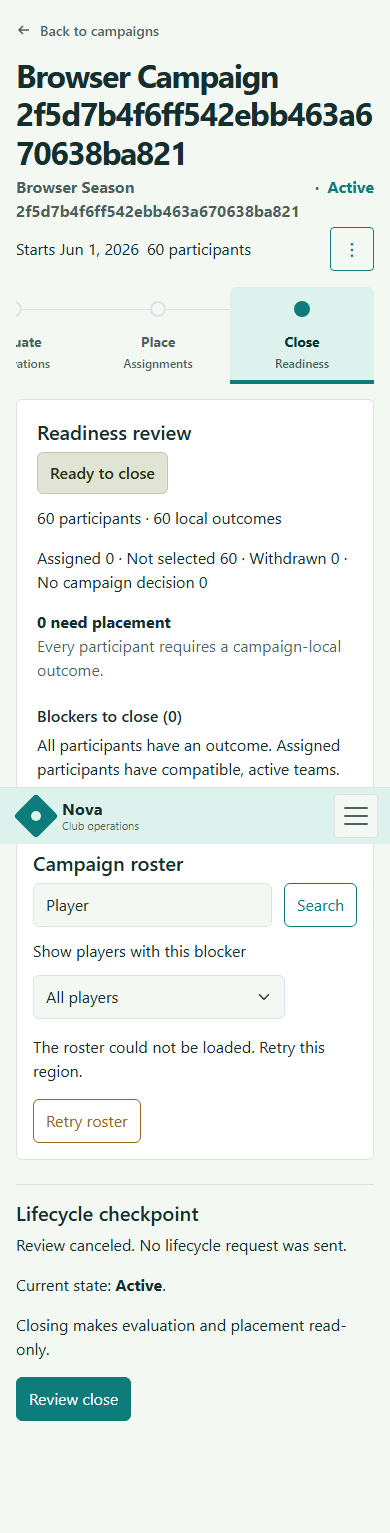
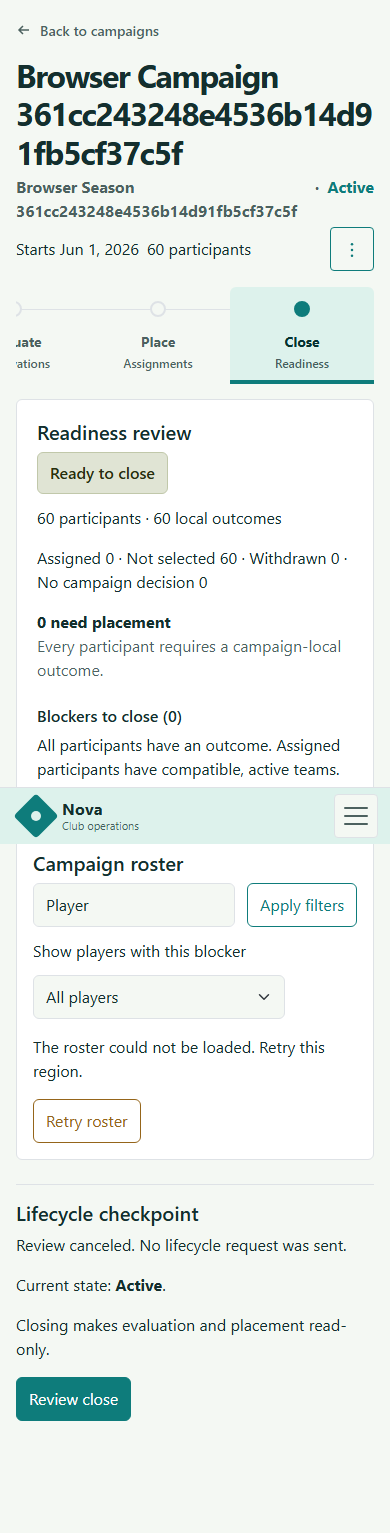
fix: preserve native close filters and correction startup context

Changed region(s): [[0.0308, 0.0613, 0.9538, 0.1533], [0.6769, 0.5825, 0.8923, 0.6132]]

diff --git a/Nova.Browser.Tests/CampaignCloseBrowserTests.Native.cs b/Nova.Browser.Tests/CampaignCloseBrowserTests.Native.cs
@@ -1,0 +1,51 @@
+using Shouldly;
+
+namespace Nova.Browser.Tests;
+
+public sealed partial class CampaignCloseBrowserTests
+{
+    [Fact]
+    public async Task NativeCloseFiltersPreserveWorkspaceContextAndResetPagingWithoutScriptsAsync()
+    {
+        var seed = await EvaluationSeed.SeedAsync(fixture.AppHost, TestContext.Current.CancellationToken);
+        await PrepareReviewAsync(seed);
+        await using var context = await fixture.NewSignedInContextAsync(seed.EvaluatorEmail, EvaluationSeed.Password,
+            new() { Width = 390, Height = 844 }, javaScriptEnabled: false);
+        var page = context.Pages[0];
+        await page.GotoAsync(new Uri(fixture.BaseUri, $"/campaigns/{seed.CampaignId}?tab=close&closePage=2&search=Roster%20%26%20context&placementSearch=Place&evalSearch=Evaluate").ToString());
+        await Expect(page.Locator(".close-roster tbody a")).ToHaveCountAsync(10);
+        // SelectOption can change an off-screen control; bring the form above the fixed phone navigation first.
+        await page.Locator("#close-blocker").ScrollIntoViewIfNeededAsync();
+        await page.Locator("#close-blocker").SelectOptionAsync("outcomes");
+        await page.GetByRole(AriaRole.Button, new() { Name = "Apply filters", Exact = true }).ClickAsync();
+        await Expect(page.Locator(".close-roster tbody a")).ToHaveCountAsync(4);
+        await Expect(page.Locator("#close-blocker")).ToHaveValueAsync("outcomes");
+        page.Url.ShouldNotContain("closePage=");
+        await page.Locator("#close-blocker").ScrollIntoViewIfNeededAsync();
+        await page.Locator("#close-search").FillAsync("Maya");
+        await page.GetByRole(AriaRole.Button, new() { Name = "Apply filters", Exact = true }).ClickAsync();
+        await Expect(page.Locator(".close-roster")).ToContainTextAsync("No participants match this review.");
+        await Expect(page.Locator("#close-blocker")).ToHaveValueAsync("outcomes");
+        await Expect(page.Locator("#close-search")).ToHaveValueAsync("Maya");
+        await page.Locator("#close-blocker").ScrollIntoViewIfNeededAsync();
+        await page.Locator("#close-blocker").SelectOptionAsync("");
+        var apply = page.GetByRole(AriaRole.Button, new() { Name = "Apply filters", Exact = true });
+        await AssertPhoneTargetAsync(apply);
+        await AssertPhoneTargetAsync(page.Locator("#close-blocker"));
+        await apply.FocusAsync();
+        await Expect(apply).ToBeFocusedAsync();
+        await apply.PressAsync("Enter");
+        await Expect(page.Locator(".close-roster tbody a")).ToHaveCountAsync(1);
+        await Expect(page.Locator(".close-roster tbody a")).ToHaveTextAsync("Maya Patel");
+        await Expect(page.Locator("#close-search")).ToHaveValueAsync("Maya");
+        var query = Uri.UnescapeDataString(new Uri(page.Url).Query.Replace('+', ' '));
+        query.ShouldContain("search=Roster & context");
+        query.ShouldContain("placementSearch=Place");
+        query.ShouldContain("evalSearch=Evaluate");
+        query.ShouldContain("closeSearch=Maya");
+        await CaptureAsync(page, "phone-native-filters");
+        await page.GoBackAsync();
+        await Expect(page.Locator(".close-roster")).ToContainTextAsync("No participants match this review.");
+        await Expect(page.Locator("#close-blocker")).ToHaveValueAsync("outcomes");
+    }
+}

diff --git a/Nova.Unit.Tests/Campaigns/CampaignCloseRosterTests.cs b/Nova.Unit.Tests/Campaigns/CampaignCloseRosterTests.cs
@@ -22,6 +22,41 @@ public sealed class CampaignCloseRosterTests : BunitContext
             .Returns(new ServiceResult<CampaignEffectivePlacementsResult>(new CampaignEffectivePlacementsResult(new(10, "Campaign", CampaignStatus.Active, new(20, "Season")), new(0, 0, 0, 0), new([], 1, 50, 0))));
     }
 
+    [Fact]
+    public void NativeFilterFormPreservesWorkspaceContextWithoutStaleCloseFields()
+    {
+        var cut = Render<CampaignCloseRoster>(p => p.Add(x => x.CampaignId, 10)
+            .Add(x => x.State, new CampaignWorkspaceCloseState { Search = "A & B", Blocker = "outcomes", Page = 2 })
+            .Add(x => x.BuildCloseUrl, _ => "/campaigns/10?tab=close&search=Roster%20%26%20context&placementSearch=Place&evalSearch=Evaluate&tag=1&tag=2&closePage=2&closeSearch=stale&closeBlocker=stale")
+            .Add(x => x.BuildParticipantUrl, _ => "/campaigns/10?tab=place"));
+        var form = cut.Find("form");
+        form.GetAttribute("method").ShouldBe("get");
+        form.GetAttribute("action").ShouldBe("/campaigns/10");
+        cut.Find("#close-search").GetAttribute("name").ShouldBe("closeSearch");
+        cut.Find("#close-search").GetAttribute("value").ShouldBe("A & B");
+        cut.Find("#close-blocker").GetAttribute("name").ShouldBe("closeBlocker");
+        cut.Find("#close-blocker").GetAttribute("form").ShouldBe(form.Id);
+        cut.Find("#close-blocker option[selected]").GetAttribute("value").ShouldBe("outcomes");
+        cut.FindAll("input[type=hidden]").Select(x => (x.GetAttribute("name"), x.GetAttribute("value")))
+            .ShouldBe(new (string?, string?)[] { ("tab", "close"), ("search", "Roster & context"), ("placementSearch", "Place"), ("evalSearch", "Evaluate"), ("tag", "1"), ("tag", "2") });
+    }
+
+    [Fact]
+    public void InteractiveFiltersRetainSiblingCloseValueAndResetPage()
+    {
+        CampaignWorkspaceCloseState? applied = null;
+        var cut = Render<CampaignCloseRoster>(p => p.Add(x => x.CampaignId, 10)
+            .Add(x => x.State, new CampaignWorkspaceCloseState { Search = "original", Blocker = "outcomes", Page = 2 })
+            .Add(x => x.BuildCloseUrl, _ => "/campaigns/10?tab=close")
+            .Add(x => x.BuildParticipantUrl, _ => "/campaigns/10?tab=place")
+            .Add(x => x.OnStateChanged, value => applied = value));
+        cut.Find("#close-search").Change(" new search ");
+        cut.Find("form").Submit();
+        applied.ShouldBe(new CampaignWorkspaceCloseState { Search = "new search", Blocker = "outcomes" });
+        cut.Find("#close-blocker").Change("eligibility");
+        applied.ShouldBe(new CampaignWorkspaceCloseState { Search = "original", Blocker = "eligibility" });
+    }
+
     [Theory(IncludeTestCaseIndex = true)]
     [InlineData(false)]
     [InlineData(true)]

diff --git a/Nova.Unit.Tests/Players/PlayerComponentsTests.cs b/Nova.Unit.Tests/Players/PlayerComponentsTests.cs
@@ -20,6 +20,45 @@ namespace Nova.Unit.Tests.Players;
 /// </summary>
 public sealed class PlayerComponentsTests : BunitContext
 {
+    /// <summary>Retains correction context and applies discovery filters before either startup authentication path loads the roster.</summary>
+    /// <param name="notificationOvertakesStartup">Whether the initial identity arrives through a notification before startup completes.</param>
+    [Theory(IncludeTestCaseIndex = true)]
+    [InlineData(false)]
+    [InlineData(true)]
+    public async Task PlayersStartupPreservesIncomingCorrectionContextAndFiltersAsync(bool notificationOvertakesStartup)
+    {
+        RegisterServices(isClubAdmin: true);
+        var pending = new TaskCompletionSource<AuthenticationState>();
+        var authentication = new DeferredAuthentication(pending.Task);
+        Services.AddSingleton<AuthenticationStateProvider>(authentication);
+        var navigation = Services.GetRequiredService<NavigationManager>();
+        navigation.NavigateTo("/players?returnToDraft=10&returnUrl=%2Fcampaigns%2F10%3Ftab%3Dclose&view=archived&search=Avery&graduationYear=2032&tag=11");
+        var cut = Render<PlayersPage>();
+        var identity = new AuthenticationState(CreatePrincipal(true));
+        if (notificationOvertakesStartup)
+        {
+            await cut.InvokeAsync(() => authentication.Publish(Task.FromResult(identity)));
+        }
+        else
+        {
+            await cut.InvokeAsync(() => pending.SetResult(identity));
+        }
+        await cut.WaitForAssertionAsync(() => cut.Markup.ShouldContain("Avery Johnson"));
+        navigation.Uri.ShouldContain("returnToDraft=10");
+        navigation.Uri.ShouldContain("returnUrl=");
+        cut.Markup.ShouldContain("Return to draft");
+        await Services.GetRequiredService<IPlayerService>().Received(1).GetPlayerRosterAsync(
+            Arg.Is<GetPlayerRosterInput>(input => input.ClubId == 42 && string.Equals(input.Search, "Avery", StringComparison.Ordinal)
+                && string.Equals(input.LifecycleStatus, "archived", StringComparison.Ordinal) && input.GraduationYear == 2032 && input.PlayerTagId == 11),
+            Arg.Any<CancellationToken>());
+        if (notificationOvertakesStartup)
+        {
+            await cut.InvokeAsync(() => pending.SetResult(identity));
+        }
+        navigation.Uri.ShouldContain("returnToDraft=10");
+        cut.Markup.ShouldContain("Return to draft");
+    }
+
     /// <summary>Verifies an empty identity overtaking startup reaches the club-required state without loading another user's roster.</summary>
     [Fact]
     public async Task PlayersAppliesEmptyIdentityWhenItOvertakesStartupAsync()

diff --git a/Nova.Browser.Tests/CampaignDraftBrowserTests.cs b/Nova.Browser.Tests/CampaignDraftBrowserTests.cs
@@ -34,12 +34,17 @@ public sealed class CampaignDraftBrowserTests(BrowserSuiteFixture fixture)
         (await page.EvaluateAsync<bool>("document.documentElement.scrollWidth <= innerWidth")).ShouldBeTrue();
         await page.SetViewportSizeAsync(1505, 1045);
         await page.GetByRole(AriaRole.Link, new() { Name = "Prepare draft", Exact = true }).ClickAsync();
-        await page.GetByRole(AriaRole.Link, new() { Name = "View players", Exact = true }).ClickAsync();
+        var returnToDraft = page.GetByRole(AriaRole.Link, new() { Name = "Return to draft", Exact = true });
+        await InteractionHelpers.ClickUntilAsync(page, page.GetByRole(AriaRole.Link, new() { Name = "View players", Exact = true }),
+            async () => string.Equals(new Uri(page.Url).AbsolutePath, "/players", StringComparison.Ordinal) && await returnToDraft.IsVisibleAsync());
         await Expect(page.GetByRole(AriaRole.Link, new() { Name = "Return to draft", Exact = true })).ToBeVisibleAsync();
-        await page.GetByRole(AriaRole.Link, new() { Name = "Return to draft", Exact = true }).ClickAsync();
+        await InteractionHelpers.ClickUntilAsync(page, returnToDraft,
+            () => page.GetByRole(AriaRole.Heading, new() { Name = "Roster preview" }).IsVisibleAsync());
         await Expect(page.GetByRole(AriaRole.Heading, new() { Name = "Roster preview" })).ToBeVisibleAsync();
-        await page.GetByRole(AriaRole.Link, new() { Name = "View teams", Exact = true }).ClickAsync();
-        await page.GetByRole(AriaRole.Link, new() { Name = "Return to draft", Exact = true }).ClickAsync();
+        await InteractionHelpers.ClickUntilAsync(page, page.GetByRole(AriaRole.Link, new() { Name = "View teams", Exact = true }),
+            async () => string.Equals(new Uri(page.Url).AbsolutePath, "/club/teams", StringComparison.Ordinal) && await returnToDraft.IsVisibleAsync());
+        await InteractionHelpers.ClickUntilAsync(page, returnToDraft,
+            () => page.GetByRole(AriaRole.Heading, new() { Name = "Roster preview" }).IsVisibleAsync());
         await page.GetByRole(AriaRole.Link, new() { Name = "Review opening", Exact = true }).ClickAsync();
         var commit = page.GetByRole(AriaRole.Button, new() { Name = "Open campaign and enroll 24 players", Exact = true });
         await Expect(commit).ToBeEnabledAsync();

diff --git a/Nova.UI/Features/Players/Pages/Players.razor.cs b/Nova.UI/Features/Players/Pages/Players.razor.cs
@@ -238,7 +238,10 @@ public partial class Players(
     protected bool IsRosterTruncated => _roster is not null && _roster.TotalCount > _roster.Items.Count;
 
     /// <inheritdoc />
-    protected override void OnParametersSet()
+    protected override void OnParametersSet() => ApplyQueryFilters();
+
+    /// <summary>Applies incoming URL filters once when binding the initial identity.</summary>
+    private void ApplyQueryFilters()
     {
         if (_queryFiltersApplied)
         {
@@ -258,6 +261,7 @@ public partial class Players(
     /// <inheritdoc />
     protected override async Task OnInitializedAsync()
     {
+        ApplyQueryFilters();
         authenticationStateProvider.AuthenticationStateChanged += OnAuthenticationStateChanged;
         var authenticationVersion = _authenticationVersion;
         var authenticationState = await authenticationStateProvider.GetAuthenticationStateAsync();
@@ -322,14 +326,24 @@ public partial class Players(
 
             ++_identityVersion;
             ++_rosterVersion;
+            var discardReturnContext = _identityApplied
+                || (Initialized && !string.Equals(SnapshotScope, $"{userId}:{clubId}:{canManagePlayers}", StringComparison.Ordinal));
             _identityApplied = true;
             _clubId = clubId;
             _userId = userId;
             _canManagePlayers = canManagePlayers;
             ResetIdentityState();
+            if (!discardReturnContext)
+            {
+                _queryFiltersApplied = false;
+                ApplyQueryFilters();
+            }
             _isLoading = _clubId is not null;
             StateHasChanged();
-            navigationManager.NavigateTo("/players", replace: true);
+            if (discardReturnContext)
+            {
+                navigationManager.NavigateTo("/players", replace: true);
+            }
             if (_clubId is null)
             {
                 _pageError = "You must join a club before viewing the player roster.";

diff --git a/Nova.Unit.Tests/Teams/TeamComponentsTests.cs b/Nova.Unit.Tests/Teams/TeamComponentsTests.cs
@@ -20,6 +20,27 @@ namespace Nova.Unit.Tests.Teams;
 /// </summary>
 public sealed class TeamComponentsTests : BunitContext
 {
+    /// <summary>Retains the incoming Draft return when the first identity notification overtakes startup.</summary>
+    [Fact]
+    public async Task TeamsInitialIdentityNotificationPreservesIncomingDraftReturnAsync()
+    {
+        RegisterServices(isClubAdmin: true);
+        var pending = new TaskCompletionSource<AuthenticationState>();
+        var authentication = new DeferredAuthentication(pending.Task);
+        Services.AddSingleton<AuthenticationStateProvider>(authentication);
+        var navigation = Services.GetRequiredService<NavigationManager>();
+        navigation.NavigateTo("/club/teams?returnToDraft=10&search=Blue");
+        var cut = Render<TeamsPage>();
+        var identity = new AuthenticationState(CreatePrincipal(true, false));
+        await cut.InvokeAsync(() => authentication.Publish(Task.FromResult(identity)));
+        await cut.WaitForAssertionAsync(() => cut.Markup.ShouldContain("U16 Blue"));
+        navigation.Uri.ShouldContain("returnToDraft=10");
+        cut.Markup.ShouldContain("Return to draft");
+        await cut.InvokeAsync(() => pending.SetResult(identity));
+        navigation.Uri.ShouldContain("returnToDraft=10");
+        cut.Markup.ShouldContain("Return to draft");
+    }
+
     /// <summary>Verifies Draft return context is discarded on club or role changes while directory filters survive.</summary>
     /// <param name="clubChange">Whether authority changes by switching clubs instead of revoking the administrator role.</param>
     [Theory(IncludeTestCaseIndex = true)]

diff --git a/Nova.UI/Features/Campaigns/Components/CampaignCloseRoster.razor.cs b/Nova.UI/Features/Campaigns/Components/CampaignCloseRoster.razor.cs
@@ -44,6 +44,23 @@ public partial class CampaignCloseRoster(IEffectivePlacementQueryService queries
     private int LastAvailablePage => _page is null ? 1 : Math.Max(1, (int)Math.Ceiling(_page.TotalCount / (double)Math.Max(1, _page.PageSize)));
     private string RequestKey => $"{Owner}:{CampaignId}:{State}";
 
+    private IEnumerable<KeyValuePair<string, string>> NativeQueryFields
+    {
+        get
+        {
+            var url = BuildCloseUrl(new());
+            var queryStart = url.IndexOf('?', StringComparison.Ordinal);
+            if (queryStart < 0) { yield break; }
+            foreach (var queryField in url[(queryStart + 1)..].Split('&', StringSplitOptions.RemoveEmptyEntries))
+            {
+                var pair = queryField.Split('=', 2);
+                var name = Uri.UnescapeDataString(pair[0]);
+                if (name is "tab" or "closeSearch" or "closeBlocker" or "closePage") { continue; }
+                yield return new(name, pair.Length > 1 ? Uri.UnescapeDataString(pair[1]) : string.Empty);
+            }
+        }
+    }
+
     /// <inheritdoc />
     protected override async Task OnParametersSetAsync()
     {

diff --git a/Nova.Browser.Tests/CampaignCloseBrowserTests.cs b/Nova.Browser.Tests/CampaignCloseBrowserTests.cs
@@ -130,7 +130,7 @@ public sealed partial class CampaignCloseBrowserTests(BrowserSuiteFixture fixtur
         await page.GetByRole(AriaRole.Link, new() { Name = "Next page", Exact = true }).ClickAsync();
         await Expect(page.Locator(".close-roster tbody a")).ToHaveCountAsync(10);
         await page.Locator("#close-search").FillAsync("Nobody matches this search");
-        await page.GetByRole(AriaRole.Button, new() { Name = "Search", Exact = true }).ClickAsync();
+        await page.GetByRole(AriaRole.Button, new() { Name = "Apply filters", Exact = true }).ClickAsync();
         await Expect(page.Locator(".close-roster")).ToContainTextAsync("No participants match this review.");
         await page.SetViewportSizeAsync(390, 844);
         await AssertPhoneTargetAsync(page.GetByRole(AriaRole.Link, new() { Name = "Show all campaign participants", Exact = true }));

diff --git a/Nova.Browser.Tests/CampaignCloseRegionalBrowserTests.cs b/Nova.Browser.Tests/CampaignCloseRegionalBrowserTests.cs
@@ -27,7 +27,7 @@ public sealed partial class CampaignCloseBrowserTests
         try
         {
             await page.Locator("#close-search").FillAsync("Player");
-            await page.GetByRole(AriaRole.Button, new() { Name = "Search", Exact = true }).ClickAsync();
+            await page.GetByRole(AriaRole.Button, new() { Name = "Apply filters", Exact = true }).ClickAsync();
             await AssertPhoneTargetAsync(page.GetByRole(AriaRole.Button, new() { Name = "Retry roster", Exact = true }));
             await Expect(page.Locator(".close-review")).ToContainTextAsync("Ready to close");
             await CaptureAsync(page, "phone-roster-error");

diff --git a/Nova.UI/Features/Teams/Pages/Teams.razor.cs b/Nova.UI/Features/Teams/Pages/Teams.razor.cs
@@ -1029,12 +1029,14 @@ public partial class Teams(
 
         var roleChanged = canManageTeams != _canManageTeams;
         var clubChanged = !_identityApplied || clubId != _clubId;
+        var discardReturnContext = (_identityApplied && (clubChanged || roleChanged))
+            || (Initialized && PersistedClubId != clubId);
 
         _identityApplied = true;
         _canManageTeams = canManageTeams;
         _clubId = clubId;
 
-        if (clubChanged || roleChanged)
+        if (discardReturnContext)
         {
             ReturnToDraft = null;
             var uri = navigationManager.GetUriWithQueryParameter("returnToDraft", (string?)null);

diff --git a/docs/issue-256-validation.md b/docs/issue-256-validation.md
@@ -1,10 +1,10 @@
 # Issue #256 validation
 
-Status: round-eight shared Close page-size reference is implemented and all required local checks pass. The working tree is `aa18cc1ba7f47cf5a84136375c38ceee84d6708e` plus the round-eight diff. Actual PR base: `3486196375e01fc870ce4fba0ac918f3a317773d`. Fresh CI and automatic review remain required after this push.
+Status: round-nine native Close filtering and correction-startup fixes passed local validation and independent code/finish review. Tested tree: `be6b5f05d80f966735ec1d9d1970e1d96fbcc48d` plus the complete round-nine diff. Actual PR base: `3486196375e01fc870ce4fba0ac918f3a317773d`. Fresh CI and automatic review remain required after the single round-nine push.
 
[2 lines of base64/hex data omitted]
 
-The original implementation `542e28eccb81637208740fa8a813b0abf67eec33` passed 3,449 unit, 628 integration and 193 browser behavior tests. Round one, committed as `c2a71e84`, passed 3,481 unit, 628 integration and 195 browser behavior tests plus build/format; its CI also passed. Eight existing opt-in capture jobs were skipped in each full browser run. Round two, committed as `84ed0efb`, passed 3,498 unit, 628 integration and 195 browser behavior tests plus build/format and CI. Round three, committed as `31c7f29c`, passed 3,516 unit, 628 integration and 195 browser behavior tests plus build/format and CI. Round four, committed as `971e1d4b`, passed 3,520 unit, 630 integration and 195 browser behavior tests plus build/format and CI. Round five, committed as `f7fb95b6`, passed 3,530 unit, 630 integration and 195 browser behavior tests plus build/format and CI. Round six, committed as `aefe6f15`, passed 3,538 unit, 630 integration and 196 browser behavior tests plus build/format and CI. Round seven, committed as `aa18cc1b`, passed 3,547 unit, 630 integration and 196 browser behavior tests plus build/format and CI. Those results remain historical evidence; the current table and dispositions below identify round-eight results. Fresh automatic review and passing CI are required after every push.
+The original implementation `542e28eccb81637208740fa8a813b0abf67eec33` passed 3,449 unit, 628 integration and 193 browser behavior tests. Round one, committed as `c2a71e84`, passed 3,481 unit, 628 integration and 195 browser behavior tests plus build/format; its CI also passed. Eight existing opt-in capture jobs were skipped in each full browser run. Round two, committed as `84ed0efb`, passed 3,498 unit, 628 integration and 195 browser behavior tests plus build/format and CI. Round three, committed as `31c7f29c`, passed 3,516 unit, 628 integration and 195 browser behavior tests plus build/format and CI. Round four, committed as `971e1d4b`, passed 3,520 unit, 630 integration and 195 browser behavior tests plus build/format and CI. Round five, committed as `f7fb95b6`, passed 3,530 unit, 630 integration and 195 browser behavior tests plus build/format and CI. Round six, committed as `aefe6f15`, passed 3,538 unit, 630 integration and 196 browser behavior tests plus build/format and CI. Round seven, committed as `aa18cc1b`, passed 3,547 unit, 630 integration and 196 browser behavior tests plus build/format and CI. Round eight, committed as `be6b5f05`, passed 3,547 unit, 630 integration and 196 browser behavior tests plus build/format and CI. Those results remain historical evidence; the current table and dispositions below identify round-nine results. Fresh automatic review and passing CI are required after every push.
 
 ## Scope and handoff
 
@@ -55,18 +55,39 @@ Primary test files: [query cases](../Nova.Unit.Tests/Campaigns/CampaignCloseRevi
 | Check | Exact command | Current result |
 | --- | --- | --- |
 | Build | `dotnet build Nova.slnx` | Passed, 0 warnings/errors |
-| Format | `dotnet format Nova.slnx --verify-no-changes --verbosity diagnostic` | Passed, 0/1,029 files require changes, final round-eight inputs |
-| Unit | `dotnet test --project Nova.Unit.Tests/Nova.Unit.Tests.csproj --no-build` | Passed 3,547/3,547, no skips, 53s, final round-eight inputs |
-| Integration | `dotnet test --project Nova.Integration.Tests/Nova.Integration.Tests.csproj --no-build` | Passed 630/630, no skips, 3m28s, final round-eight inputs |
-| Browser | `dotnet test --project Nova.Browser.Tests/Nova.Browser.Tests.csproj --no-build` | Passed 196 behavior tests, eight existing opt-in capture skips, 6m27s, final round-eight inputs |
-| Diff hygiene | `git diff --check` | Passed on the complete round-six diff |
+| Format | `dotnet format Nova.slnx --verify-no-changes --verbosity diagnostic` | Passed; 0 of 1,030 files changed, 165s |
+| Unit | `dotnet test --project Nova.Unit.Tests/Nova.Unit.Tests.csproj --no-build` | Passed 3,552/3,552, no skips, 50s, final round-nine inputs; both startup query cases included |
+| Integration | `dotnet test --project Nova.Integration.Tests/Nova.Integration.Tests.csproj --no-build` | Passed 630/630, no skips, 3m13s, final round-nine inputs |
+| Browser | `dotnet test --project Nova.Browser.Tests/Nova.Browser.Tests.csproj --no-build` | Passed 197 behavior tests; eight existing opt-in capture skips, 6m42s, final round-nine inputs |
+| Diff hygiene | `git diff --check` | Passed on the complete round-nine diff |
 | Migration model | No model/entity/configuration/migration change | Not applicable; PostgreSQL migration/schema regressions included in integration suite |
 
 Build-capable commands were serial. Integration and browser suites ran serially; both provisioned their own Aspire host. App source/generated assets were fixed throughout each browser run. No Sass/package change; theme rebuild/contrast-specific gate is not newly applicable.
 
-The eight browser skips are existing environment-gated screenshot jobs, not skipped behavior tests. Nine representative captures were refreshed at 09:05 UTC in the final round-six run with `NOVA_CLOSE_EVIDENCE` set, including the new phone stale-page recovery. The tenth capture retains the original comparison input. Independent bounded reinspection of all nine refreshed captures returned ship with no material regression. Rounds seven and eight reuse these visual captures because no markup, CSS, copy or composition changed; each has fresh full browser behavior validation for its source inputs. Documentation/evidence curation after the tests does not change application or test source.
+The eight browser skips are existing environment-gated screenshot jobs, not skipped behavior tests. Ten representative captures were refreshed at 11:27–11:28 UTC in the final round-nine run with `NOVA_CLOSE_EVIDENCE` set, including script-disabled phone filtering and stale-page recovery. The eleventh capture retains the original failed comparison input. Independent bounded reinspection of all ten refreshed captures returned ship with no material regression. Rounds seven and eight reused the prior round-six captures because they changed no markup, CSS, copy or composition; round nine has fresh visual and full browser evidence. Documentation/evidence curation after the tests does not change application or test source.
 
 ## Material failures and review dispositions
+
+### Review round nine
+
+The [automatic Copilot review on be6b5f05](https://github.com/eruvalca/Nova/pull/281#pullrequestreview-5221445517) says “Needs a closer look” with two suppressed native-navigation findings; the completed workflow classifies two moderate findings. CI Build and Unit Tests passed. Both findings are applicable and this is not a clean-review stop.
+
+Search now uses a native GET action with a named Close search field. The blocker select belongs to that form through its HTML form association and carries a named query field and explicit selected option for static HTML. “Apply filters” submits both natively. Existing interactive search and immediate blocker change callbacks remain progressive enhancements. Hidden fields come from the existing Close URL builder, preserve Roster/Place/Evaluate context and repeated values, and omit old Close page/search/blocker fields; submitting filters resets Close paging.
+
+| Requirement | Evidence |
+| --- | --- |
+| Native form/action, named controls, selected blocker and decoded carried context without stale Close fields | `NativeFilterFormPreservesWorkspaceContextWithoutStaleCloseFields` |
+| Initial identity notification overtakes startup on Teams; normal or overtaking startup on Players | `TeamsInitialIdentityNotificationPreservesIncomingDraftReturnAsync`; `PlayersStartupPreservesIncomingCorrectionContextAndFiltersAsync` assert return context and actual query filters; existing club/role change tests retain reset coverage |
+| Interactive callbacks preserve sibling Close state and reset paging | `InteractiveFiltersRetainSiblingCloseValueAndResetPage` plus existing interactive search/history and blocker journeys |
+| JavaScript-disabled phone browser applies blocker and search, restores selected values, resets page, retains all workspace searches, supports keyboard submission and back navigation | `NativeCloseFiltersPreserveWorkspaceContextAndResetPagingWithoutScriptsAsync` |
+
+Independent review caught a test fixture using `placeSearch` instead of the existing `placementSearch` key. Both unit/browser fixture URLs and assertions were corrected before test compilation; no production contract changed for that correction. The first build rejected the iterator local named `field`, which is a C# 14 keyword inside a property accessor (CS9273, with cascading CS9258/CS1929). Renamed it `queryField`; no suppression or contract change. The next build caught CS8620 in the new tuple assertion because DOM attributes are nullable; the expected tuple array now has nullable string elements, preserving the exact values/order assertion. Independent review otherwise returned clean.
+
+The initial full browser run failed two cases (195 passed; eight existing capture skips). The new script-disabled phone test changed an off-screen select without scrolling it into view; the next native click targeted a button at y=799.58–843.58 in a 390×844 viewport, underneath the fixed navigation. The diagnostic capture confirmed the overlap. Explicitly scrolling the select into view models the prerequisite user interaction and retains ordinary clicks; no force-click or shell CSS exception was added. The next run passed all filter submissions but exposed Back restoring the last edited select value instead of the URL's applied blocker. The URL-owned GET form now disables browser form-value restoration with `autocomplete="off"`; the focused native browser case passed with this correction.
+
+The second original failure was a missing Teams Return to draft link after native navigation. That run did not capture the resulting URL or authentication sequence, so its exact cause is unconfirmed. Bounded native-link settlement improves diagnostics but does not establish a root cause. Investigation then deterministically reproduced a matching defect on both Teams and Players: the first identity notification overtaking startup was treated as an authority change and stripped the incoming correction return. Both new regression tests failed before the fix (77 other component tests passed). Initial identity binding now retains incoming context and reloads authorized data; an observed scope change or mismatching persisted owner still discards the old context. The corrected authentication component selection passed 79/79 and the focused browser selection passed 10/10. A sibling review then found that normal Players initialization also read the default roster before applying incoming URL filters; the same exact-query regression now covers normal and overtaking-notification startup. Before the normal-startup fix, only that theory row failed (33 other Players cases passed), recording an actual active/empty-search/null-year/null-tag query despite the archived/Avery/2032/tag-11 URL. Normal initialization now applies query filters before its first identity await and roster read. Final full validation passed on the fingerprinted inputs; independent code review found no remaining findings.
+
+Guidance applied: Blazor/C#/testing rules, `add-blazor-ui` and lifecycle/state references, `nova-testing` component/browser references, .NET run-tests/focused code-testing, and Impeccable harden/Operate/craft-floor within approved B. Fresh captures and bounded visual finish reinspection cover the changed button and native phone state.
 
 ### Review round eight
 

diff --git a/.impeccable/review/issue-256/local-code-review.md b/.impeccable/review/issue-256/local-code-review.md
@@ -75,3 +75,14 @@ The first full browser run exposed an ambiguous status locator: normal conflict 
 The independent reviewer acknowledged that its round-six inapplicability disposition missed the explicit API Routes rule for public builders. Client short-circuiting does not satisfy that separate contract. Reinspection found the corrected canonicalization/omission clean: existing shared blocker keys are reused, original input remains unchanged, and strict client/service validation still rejects invalid originals without HTTP. Nine exact URL cases plus three preserved invalid-client cases cover the boundary without weakening validation.
 
 The reviewer also inspected the workflow's withdrawn retry-performance comment. Panel RetryAsync intentionally forwards to workspace RefreshCloseEvidenceAsync, which refreshes authorized detail, invalidates readiness/generation, reads fresh readiness and republishes startup state. No demonstrated defect justifies changing this recovery contract. Final read-only verdict: clean. No suites were run by the reviewer.
+
+# Review round 9 — native Close filter navigation
+
+Independent review found a test-fixture key mismatch (`placeSearch` versus actual `placementSearch`); both fixtures were corrected. Final read-only disposition: clean. Native GET action, carried workspace fields, external select form association, static selected options, Close page reset and existing interactive callbacks were inspected against the sibling Evaluate pattern. Browser and finish evidence remain separately recorded in the authoritative validation record.
+
+The reviewer also reinspected the build corrections: queryField naming avoids C# 14 accessor keyword binding, and nullable tuple annotations match the DOM API while preserving exact expected values/order. Final read-only disposition remains clean; no suppression or weakened assertion.
+
+The initial phone failure was independently inspected: Playwright changed an off-screen select, leaving the next ordinary click under fixed navigation. Explicit scrolling of that select retains normal hit testing. The subsequent Back-value failure was fixed with form autocomplete disabled and verified by the focused script-disabled browser case.
+
+Investigation of the uncaptured Draft-return timeout deterministically reproduced initial identity notifications stripping incoming correction context in both Players and Teams. The independent reviewer found the fix sound: first binding preserves incoming context; observed scope changes and mismatched persisted ownership still invalidate it. It requested a stronger Players regression asserting the actual search, archived lifecycle, graduation-year and tag query values, which was added with explicit ordinal comparisons. Final bounded code verdict: clean, no remaining findings. The reviewer verified the 10/10 focused browser result; full suite results remain in the authoritative validation record. The exact sequence behind the original Draft browser occurrence remains unobserved.
+The final sibling inspection confirmed normal Players initialization queried default active/unfiltered data before its parameter lifecycle applied the URL. The added two-case startup theory reproduced that normal-path mismatch independently of the notification race. The reviewer inspected the first-statement ApplyQueryFilters call and exact query assertions for both paths, returning clean with no remaining findings. Shipping validation is recorded separately.
